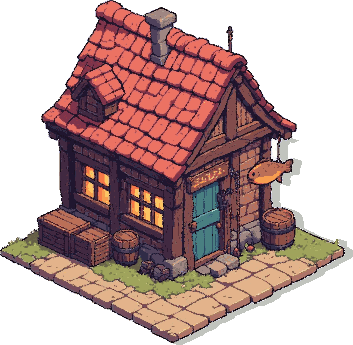
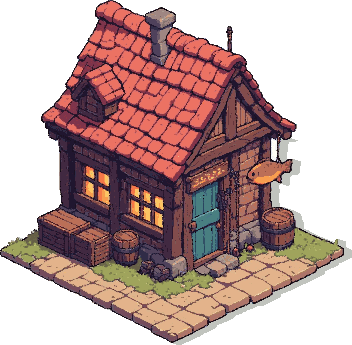
clean_ai: drop light fringe left from the white background
Claude-Session: https://claude.ai/code/session_01UfpJh2yGrDMaNfv5mQuco1

diff --git a/tools/pixel-art/clean_ai.py b/tools/pixel-art/clean_ai.py
@@ -33,6 +33,13 @@ def main(src, out, cut_y, scale, pal_path):
         ImageDraw.floodfill(bg, c, (255, 0, 255), thresh=40)
     rgb = np.asarray(im.convert('RGB'), float)
     alpha = ~np.all(np.asarray(bg) == (255, 0, 255), axis=-1)
+    # beyaz arka plandan kalan açık kenar saçağını sil: arka plana değen açık pikseller de arka plan
+    light = rgb.min(-1) > 165
+    for _ in range(4):
+        bgm = ~alpha
+        near = np.zeros_like(bgm)
+        near[1:] |= bgm[:-1]; near[:-1] |= bgm[1:]; near[:, 1:] |= bgm[:, :-1]; near[:, :-1] |= bgm[:, 1:]
+        alpha &= ~(near & light)
     alpha[cut_y + 1:, :] = False
     ys, xs = np.where(alpha); y0, y1, x0, x1 = ys.min(), ys.max() + 1, xs.min(), xs.max() + 1
     rgb, alpha = rgb[y0:y1, x0:x1], alpha[y0:y1, x0:x1]
